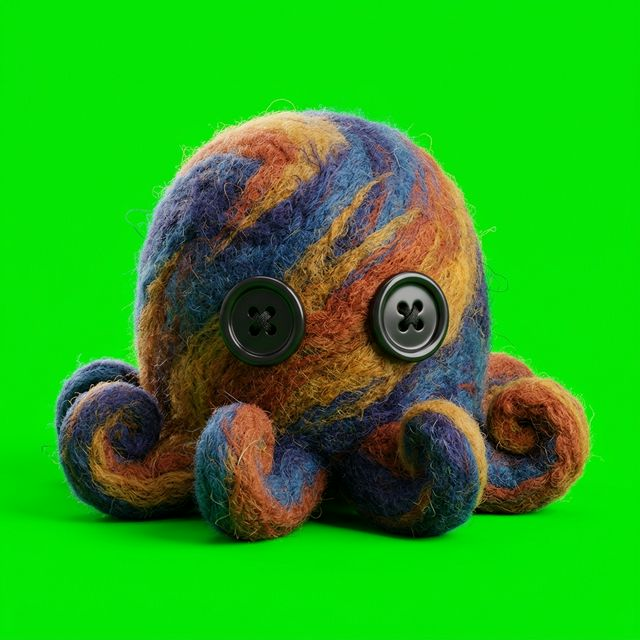
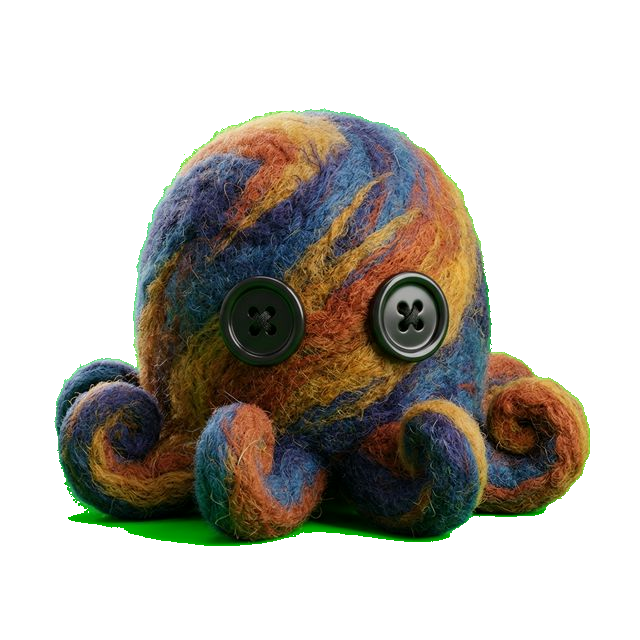
style: make mascot transparent, center it, and restore starry background with neon blobs

diff --git a/src/components/TranscriptionPage.tsx b/src/components/TranscriptionPage.tsx
@@ -248,15 +248,16 @@ export default function TranscriptionPage() {
   };
 
   return (
-    <div className={`w-full min-h-screen bg-[#06080f] text-slate-200 font-sans pt-12 pb-24 px-6 md:px-12 selection:bg-fuchsia-500 selection:text-white relative overflow-hidden ${showJojo ? 'animate-[shake_0.1s_linear_infinite]' : ''}`}>
+    <div className={`w-full min-h-screen bg-[#04060b] bg-[url('/bg-starry.png')] bg-cover bg-center bg-fixed text-slate-200 font-sans pt-12 pb-24 px-6 md:px-12 selection:bg-fuchsia-500 selection:text-white relative overflow-hidden ${showJojo ? 'animate-[shake_0.1s_linear_infinite]' : ''}`}>
       
-      {/* Absolute Madness: Dark Y2K Neon Blobs */}
+      {/* Background Decorative Space Blobs (Y2K Neon Dark Energy overlapping the Stars) */}
+      <div className="absolute inset-0 bg-[#06080f]/50 pointer-events-none" />
       <div 
-        className="fixed top-[-30%] left-[-20%] w-[80vw] h-[80vw] rounded-full bg-gradient-to-tr from-fuchsia-600/40 to-purple-800/40 blur-[120px] -z-10 animate-pulse mix-blend-color-dodge pointer-events-none transition-transform duration-[200ms] ease-out" 
+        className="fixed top-[-30%] left-[-20%] w-[80vw] h-[80vw] rounded-full bg-gradient-to-tr from-fuchsia-600/50 to-purple-800/50 blur-[120px] 0 animate-pulse mix-blend-color-dodge pointer-events-none transition-transform duration-[200ms] ease-out" 
         style={{ transform: `translate(${-mousePos.x}px, ${-mousePos.y}px)`, animationDuration: '4s' }} 
       />
       <div 
-        className="fixed bottom-[-20%] right-[-20%] w-[70vw] h-[70vw] rounded-full bg-gradient-to-tl from-cyan-400/40 to-lime-500/20 blur-[120px] -z-10 animate-pulse mix-blend-color-dodge pointer-events-none transition-transform duration-[200ms] ease-out" 
+        className="fixed bottom-[-20%] right-[-20%] w-[70vw] h-[70vw] rounded-full bg-gradient-to-tl from-cyan-400/50 to-lime-500/40 blur-[120px] 0 animate-pulse mix-blend-color-dodge pointer-events-none transition-transform duration-[200ms] ease-out" 
         style={{ transform: `translate(${mousePos.x}px, ${mousePos.y}px)`, animationDuration: '7s' }} 
       />
       
@@ -511,20 +512,18 @@ export default function TranscriptionPage() {
 
       {/* Floating Pessimistic Companion (天竺鼠車車羊毛氈風 章魚星人) */}
       <div 
-        className="fixed top-0 left-0 pointer-events-none z-50 transition-all duration-[800ms] ease-out flex flex-col items-center drop-shadow-[0_20px_30px_rgba(0,0,0,0.9)] mix-blend-normal"
-        style={{ transform: `translate(${mascotPos.x + 30}px, ${mascotPos.y + 30}px) rotate(${targetTilt}deg)` }}
+        className="fixed top-0 left-0 pointer-events-none z-50 transition-all duration-[800ms] ease-out flex flex-col items-center drop-shadow-[0_20px_40px_rgba(0,0,0,0.8)]"
+        style={{ transform: `translate(${mascotPos.x + 30}px, ${mascotPos.y - 10}px) rotate(${targetTilt}deg)` }}
       >
-        {/* The generated green-background felt octopus, cropped beautifully using a circle mask and heavy borders */}
-        <div className="w-32 h-32 md:w-44 md:h-44 rounded-full overflow-hidden border-[6px] border-[#0a0f1a] shadow-[0_0_60px_rgba(217,70,239,0.5)] bg-[#00FF00]">
-          <img 
-            src="/mascot.png" 
-            alt="Pessimistic Space Octopus Buddy" 
-            className="w-[124%] h-[124%] -ml-[12%] -mt-[12%] object-cover animate-[bounce_2.5s_ease-in-out_infinite]" 
-          />
-        </div>
+        {/* Transparent Mascot Body */}
+        <img 
+          src="/mascot.png" 
+          alt="Pessimistic Space Octopus Buddy" 
+          className="w-28 h-28 md:w-36 md:h-36 object-contain drop-shadow-[0_0_50px_rgba(217,70,239,0.3)] animate-[bounce_2.5s_ease-in-out_infinite]" 
+        />
         
         {/* Dynamic Speech Bubble based on Status and Hover */}
-        <div className="mt-6 bg-white/10 backdrop-blur-2xl px-6 py-4 rounded-3xl border-2 border-fuchsia-500/30 text-sm md:text-base font-black text-fuchsia-300 shadow-[0_20px_50px_rgba(0,0,0,0.8)] opacity-100 transition-opacity whitespace-nowrap" style={{ transform: `rotate(${-targetTilt * 0.5}deg)` }}>
+        <div className="mt-2 bg-white/10 backdrop-blur-3xl px-6 py-4 rounded-3xl border-2 border-fuchsia-500/30 text-sm md:text-base font-black text-fuchsia-300 shadow-[0_20px_50px_rgba(0,0,0,0.8)] opacity-100 transition-opacity whitespace-nowrap" style={{ transform: `rotate(${-targetTilt * 0.5}deg)` }}>
           {getMascotSpeech()}
         </div>
       </div>
